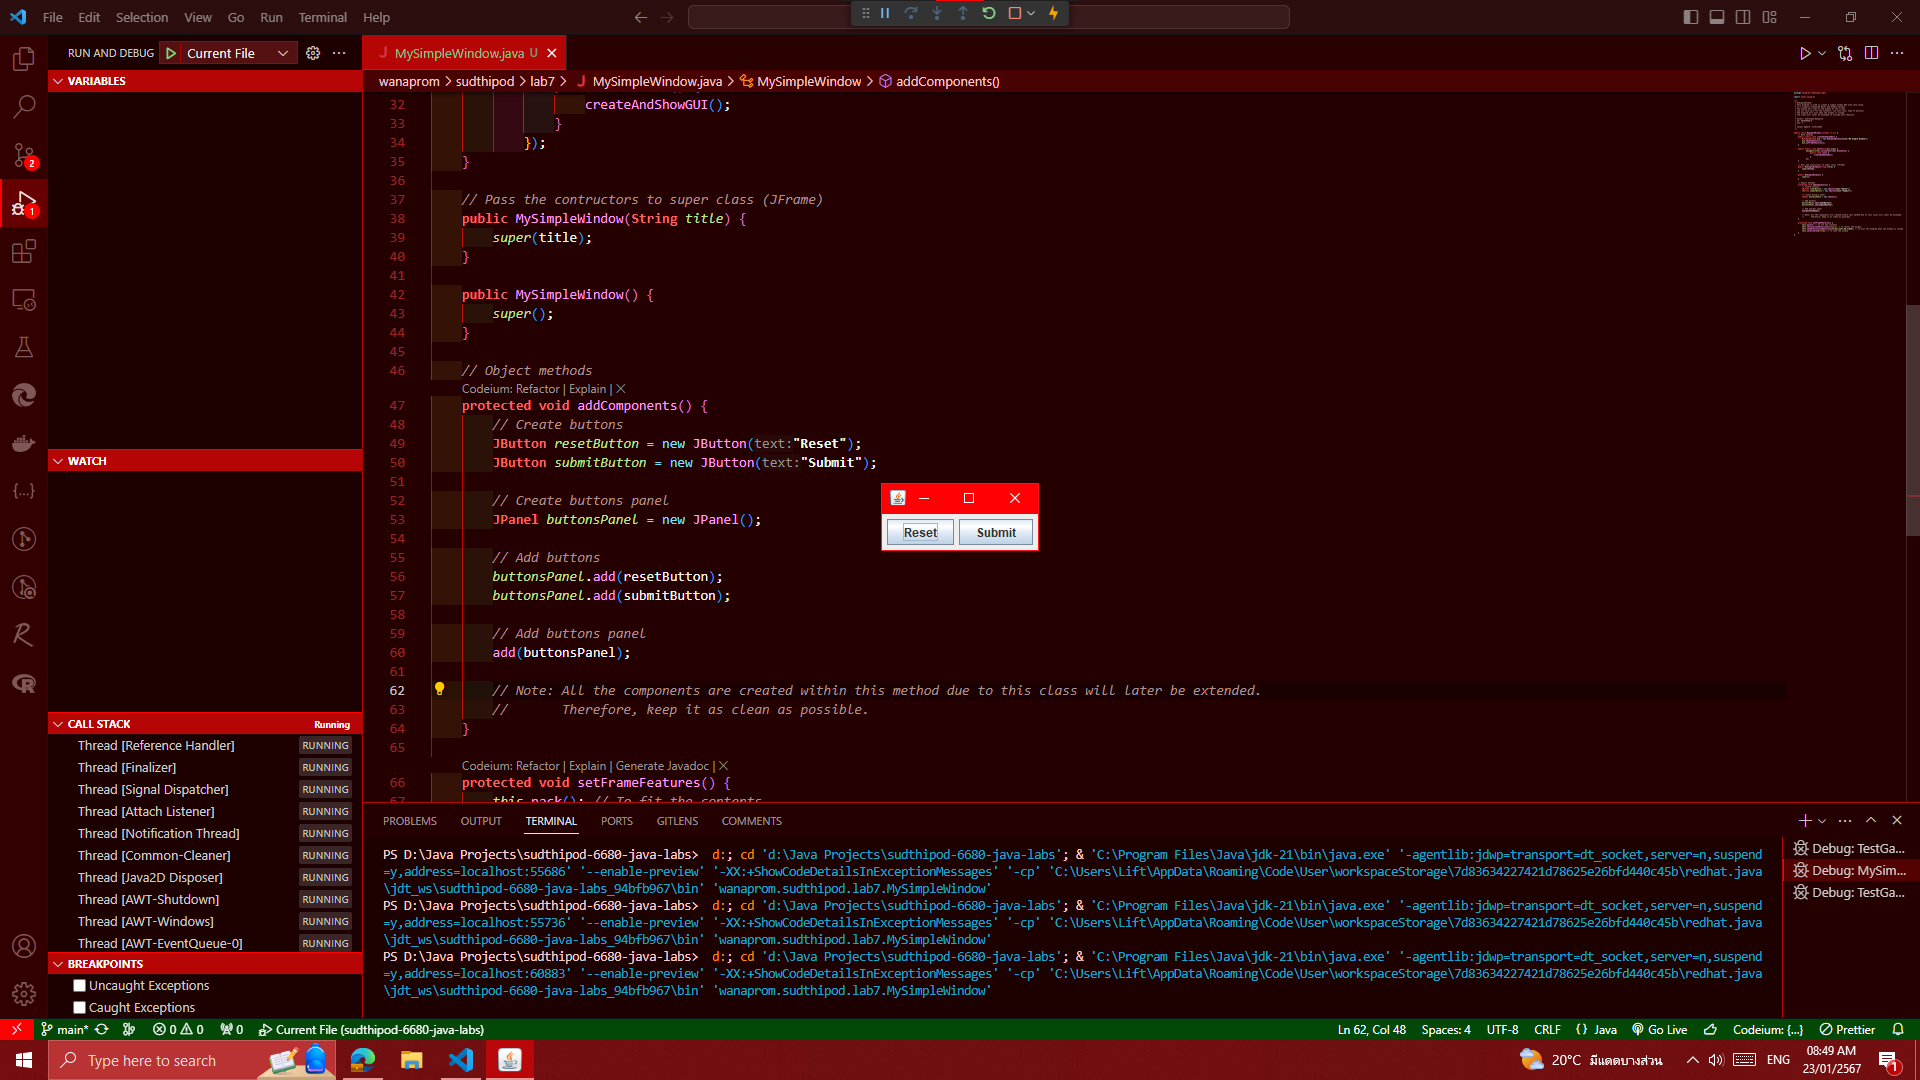
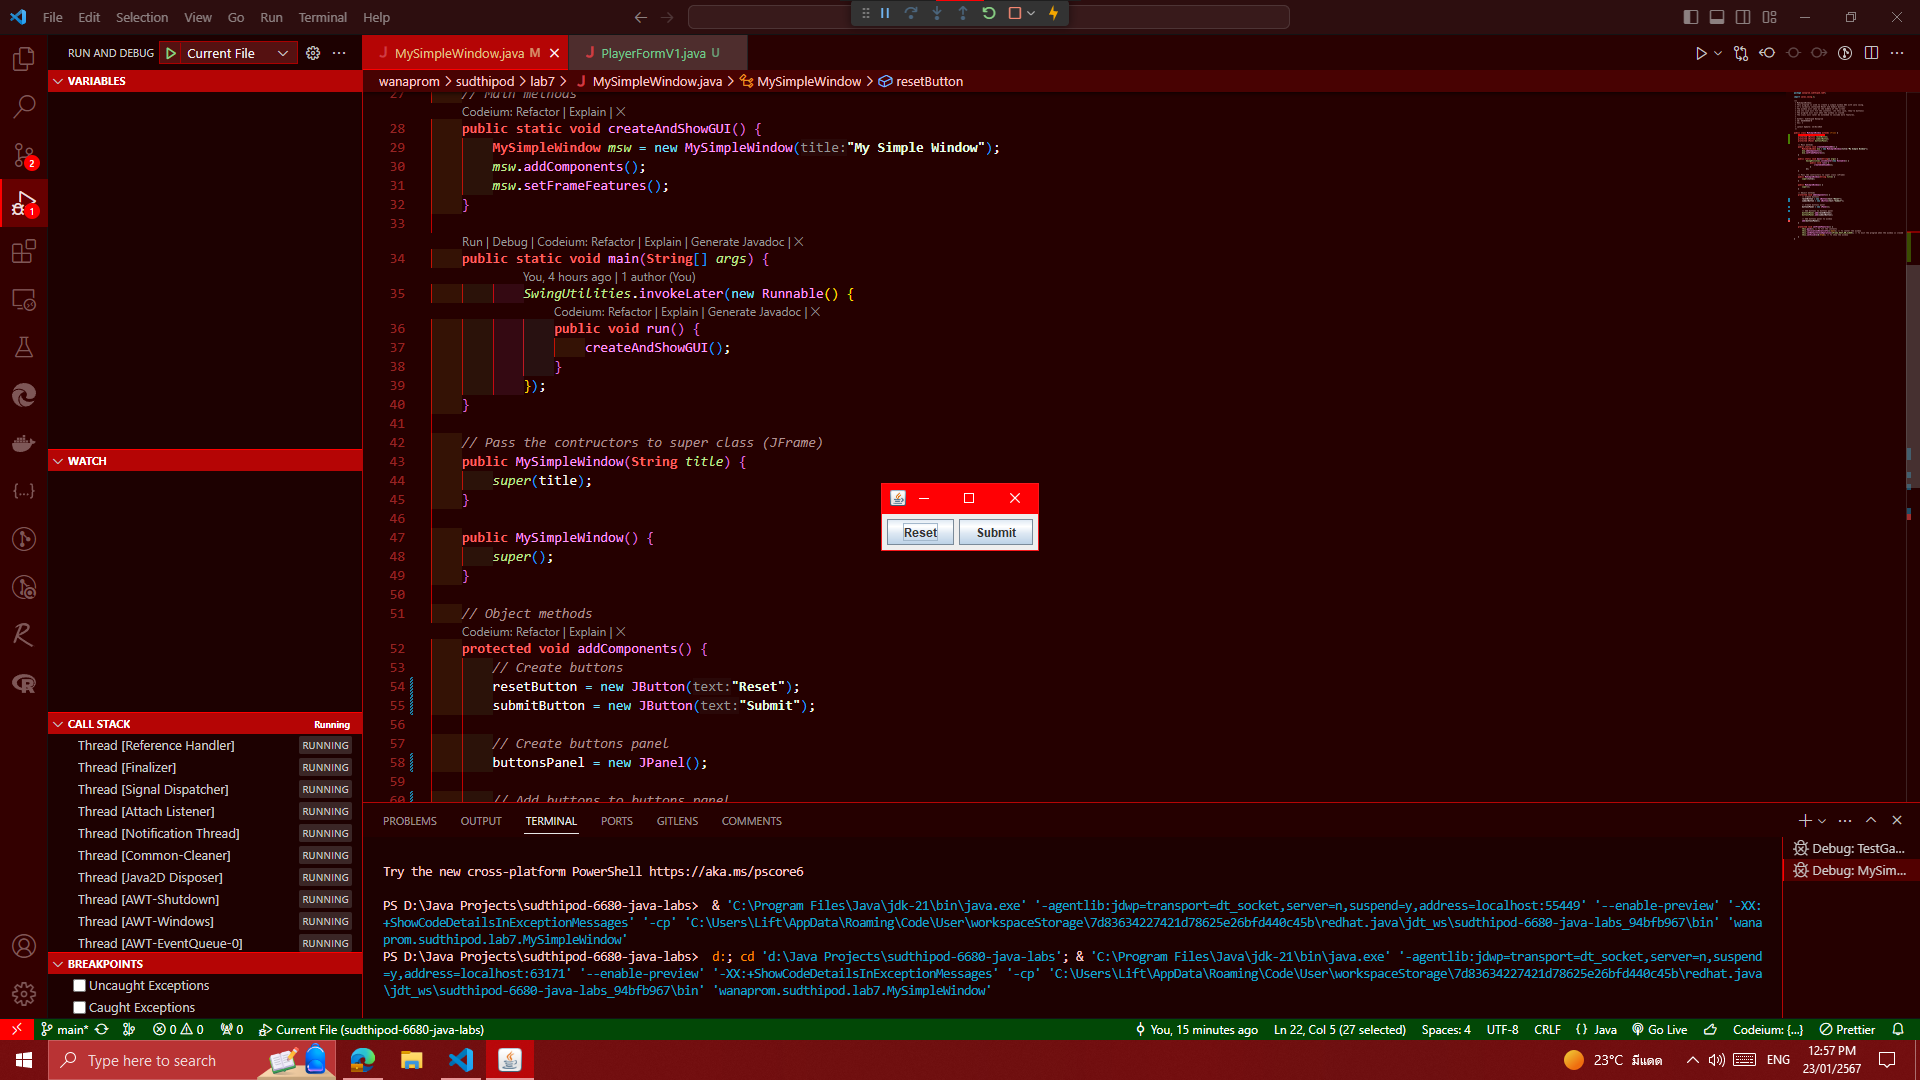
Struggle with panel display

diff --git a/wanaprom/sudthipod/lab7/PlayerFormV1.java b/wanaprom/sudthipod/lab7/PlayerFormV1.java
@@ -1,0 +1,113 @@
+package wanaprom.sudthipod.lab7;
+
+import javax.swing.*;
+
+/**
+ * PlayerFormV1:
+ * This program collects player information from user
+ * including :
+ * - <playerName> by JTextField
+ * - <playerNationality> by JTextField
+ * - <playerBirthDate> by JTextField
+ * - <playerGender> by JRadioButtons in ButtonGroup
+ * 
+ * The class is extended from MySimpleWindow
+ * and overrides the addComponents methods
+ * (Static method must not be overridden but must be redefined instead)
+ * 
+ * Author: Sudthipod Wanaprom
+ * ID: 663040668-0
+ * Sec: 2
+ *
+ * Latest Update: 23/01/2024
+ */
+
+public class PlayerFormV1 extends MySimpleWindow {
+    // Components Clarification
+    protected JPanel namePanel;
+    protected JLabel nameLabel;
+    protected JTextField nameField;
+
+    protected JPanel nationalityPanel;
+    protected JLabel nationalityLabel;
+    protected JTextField nationalityField;
+
+    protected JPanel birthDatePanel;
+    protected JLabel birthDateLabel;
+    protected JTextField birthDateField;
+
+    protected JPanel genderPanel;
+    protected JLabel genderLabel;
+    protected ButtonGroup genderButtonGroup;
+    protected JRadioButton maleButton;
+    protected JRadioButton femaleButton;
+
+    protected final int FIELD_LENGTH = 15;
+
+    // Main methods (redefine)
+    public static void createAndShowGUI() {
+        PlayerFormV1 msw = new PlayerFormV1("Player Form V1");
+        msw.addComponents();
+        msw.setFrameFeatures();
+    }
+
+    public static void main(String[] args) {
+            SwingUtilities.invokeLater(new Runnable() {
+                public void run() {
+                    createAndShowGUI();
+                }
+            });
+    }
+
+    // Pass the contructors to super class (JFrame)
+    public PlayerFormV1(String title) {
+        super(title);
+    }
+
+    public PlayerFormV1() {
+        super();
+    }
+
+    // Object methods
+    protected JPanel makeForm(JPanel formPanel, JLabel formLabel, JTextField formField, String formName) {
+        // This method will create and add form with text label from formName
+        // and return the formPanel as an object
+
+        // Create the form panel
+        formPanel = new JPanel();
+
+        // Create the form label and form field
+        formLabel = new JLabel(formName);
+        formField = new JTextField();
+        formField.setSize(FIELD_LENGTH, formField.getHeight());
+
+        // Add the form label and form field to the form panel
+        formPanel.add(formLabel);
+        formPanel.add(formField);
+
+        // Add the form panel to the main panel
+        add(formPanel);
+
+        // Return the form panel
+        return formPanel;
+    }
+
+    @Override
+    protected void addComponents() {
+        // Create grid layout
+
+        // Create forms respectively
+        makeForm(namePanel, nameLabel, nameField, "Name:");
+        makeForm(nationalityPanel, nationalityLabel, nationalityField, "Nationality:");
+        makeForm(birthDatePanel, birthDateLabel, birthDateField, "Date of Birth (eg.,31-01-2005):");
+
+
+        // Create and add buttons
+        buttonsPanel = new JPanel();
+        resetButton = new JButton("Reset");
+        submitButton = new JButton("Submit");
+        buttonsPanel.add(resetButton);
+        buttonsPanel.add(submitButton);
+        add(buttonsPanel);
+    }
+}

diff --git a/wanaprom/sudthipod/lab7/MySimpleWindow.java b/wanaprom/sudthipod/lab7/MySimpleWindow.java
@@ -19,6 +19,11 @@ import javax.swing.*;
  */
 
 public class MySimpleWindow extends JFrame {
+    // Components Clarification
+    protected JButton resetButton;
+    protected JButton submitButton;
+    protected JPanel buttonsPanel;
+
     // Main methods
     public static void createAndShowGUI() {
         MySimpleWindow msw = new MySimpleWindow("My Simple Window");
@@ -46,21 +51,18 @@ public class MySimpleWindow extends JFrame {
     // Object methods
     protected void addComponents() {
         // Create buttons
-        JButton resetButton = new JButton("Reset");
-        JButton submitButton = new JButton("Submit");
+        resetButton = new JButton("Reset");
+        submitButton = new JButton("Submit");
 
         // Create buttons panel
-        JPanel buttonsPanel = new JPanel();
+        buttonsPanel = new JPanel();
 
-        // Add buttons
+        // Add buttons to buttons panel
         buttonsPanel.add(resetButton);
         buttonsPanel.add(submitButton);
 
-        // Add buttons panel
+        // Add buttons panel to window
         add(buttonsPanel);
-
-        // Note: All the components are created within this method due to this class will later be extended.
-        //       Therefore, keep it as clean as possible.
     }
 
     protected void setFrameFeatures() {
